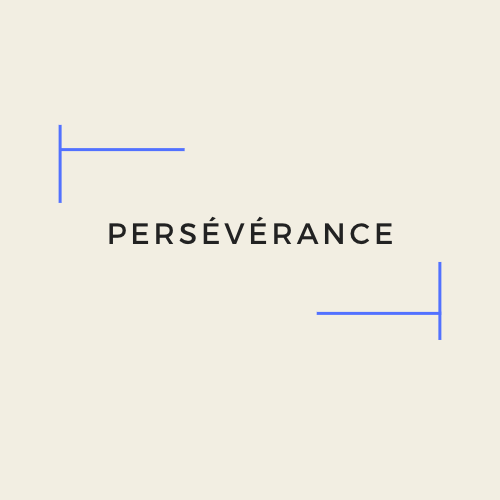
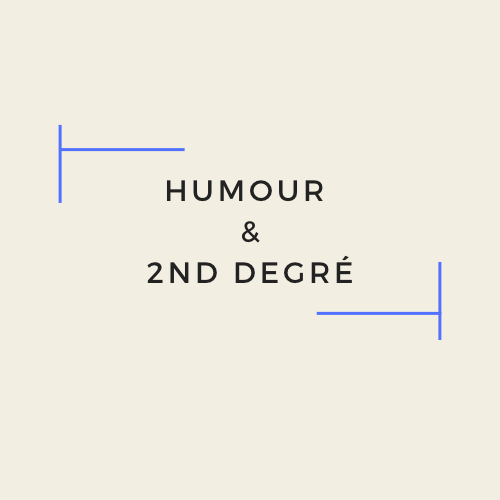
changed images for blue frame and added description

Changed region(s): [[0.21, 0.36, 0.78, 0.57]]

diff --git a/app.js b/app.js
@@ -1,124 +1,158 @@
 const bonus = [
 {
-  name: 'arbre_nelbi',
-  img: 'images/Arbre_nelbi.png',
-  bigImg: 'big_images/14.png'
+  name: 'BONUS, vous avez trouvé toute les pairs',
+  img: 'blue_images/Arbre_nelbi.png',
+  bigImg: 'big_images/14.png',
+  description: 'D\'où vient le prénom Nelbi ? C\'est à l\'origine le nom d\'un arbre sacré pour une tribu (les Peuls) au Mali. Il y a trois sortes de Nelbi : le Nelbi d\'eau, le Nelbi de terre et le Nelbi de nulle part 🤓'
 }
 ]
 const cardArray = [
 
   {
-    name: 'Esprit_d_equipe',
-    img: 'images/Esprit_d_equipe.png'
-
+    name: 'Esprit d\'equipe',
+    img: 'blue_images/Esprit_d_equipe.png',
+    bigImg: 'big_images/1.png',
+    description: '\'Il y a plus d\'idées dans deux têtes que dans une\'\n\n~ Jaques Chirac'
   },
   {
     name: 'Perseverance',
-    img: 'images/Perseverance.png'
+    img: 'blue_images/Perseverance.png',
+    bigImg: 'big_images/5.png',
+    description: 'En persévérant on arrive à tout.'
   },
   {
-    name: 'Plongee',
-    img: 'images/Plongee.png',
-    bigImg: 'images/big_plongée.jpg'
+    name: 'Plongée',
+    img: 'blue_images/Plongee.png',
+    bigImg: 'images/big_plongée.jpg',
+    description: '📸 prise à Hawaii lors d\'un séjour plongée.\n\n Titulaire du PADI Open Water, pratique la plongée depuis plusieurs années. 🐳'
   },
   {
-    name: 'Porte_bijoux',
-    img: 'images/Porte_bijoux.png',
-    bigImg: 'big_images/15.png'
+    name: 'Porte bijoux',
+    img: 'blue_images/Porte_bijoux.png',
+    bigImg: 'big_images/15.png',
+    description: 'Porte-bijou en laiton conçu dans la tête, et fabriqué, à la main 🤌'
   },
   {
-    name: 'Resolution_de_probleme',
-    img: 'images/Resolution_de_probleme.png'
+    name: 'Resolution de probleme',
+    img: 'blue_images/Resolution_de_probleme.png',
+    bigImg: 'big_images/2.png',
+    description: 'Recherche de solutions innovantes et efficace pour la résolution de problème.'
   },
   {
-    name: 'Sens_de_loptimisation',
-    img: 'images/Sens_de_loptimisation.png'
+    name: 'Sens de loptimisation',
+    img: 'blue_images/Sens_de_loptimisation.png',
+    bigImg: 'big_images/3.png',
+    description: 'Intérêt marqué dans la recherche de moyens pour rendre les processus plus efficaces et performants.'
   },
   {
-    name: 'Squelette_de_baleine',
-    img: 'images/Squelette_baleine.png',
-    bigImg: 'big_images/10.png'
+    name: 'Squelette de baleine',
+    img: 'blue_images/Squelette_baleine.png',
+    bigImg: 'big_images/10.png',
+    description: '📸 prise lors du soclage d\'un squelette de baleine (actuellement exposé au Musée des Confluences, à Lyon)'
   },
   {
     name: 'Velo',
-    img: 'images/Velo.png',
-    bigImg: 'big_images/19.png'
+    img: 'blue_images/Velo.png',
+    bigImg: 'big_images/19.png',
+    description: 'Le vélo, c\'est tout les jours, qu\'il vente ou qu\'il pleuve, court trajet, long trajet .\n🚴🏼♀'
   },
   {
     name: 'Yoga',
-    img: 'images/Yoga.png',
-    bigImg: 'big_images/8.png'
+    img: 'blue_images/Yoga.png',
+    bigImg: 'big_images/8.png',
+    description: 'Titulaire d\'un Teacher Training de 75H et pratique le yoga plusieurs fois par semaine'
   },
   {
     name: 'Humour',
-    img: 'images/Humour.png'
+    img: 'blue_images/Humour.png',
+    bigImg: 'big_images/6.png',
+    description: 'ERREUR 404'
   },
   {
-    name: 'Esprit_d_equipe',
-    img: 'images/Esprit_d_equipe.png'
-
+    name: 'Esprit d\'equipe',
+    img: 'blue_images/Esprit_d_equipe.png',
+    bigImg: 'big_images/1.png',
+    description: '\'Il y a plus d\'idées dans deux têtes que dans une\'\n\n~ Jaques Chirac'
   },
   {
     name: 'Perseverance',
-    img: 'images/Perseverance.png'
+    img: 'blue_images/Perseverance.png',
+    bigImg: 'big_images/5.png',
+    description: 'En persévérant on arrive à tout.'
   },
   {
     name: 'Plongee',
-    img: 'images/Plongee.png',
-    bigImg: 'images/big_plongée.jpg'
+    img: 'blue_images/Plongee.png',
+    bigImg: 'images/big_plongée.jpg',
+    description: '📸 prise à Hawaii lors d\'un séjour plongée.\n\n Titulaire du PADI Open Water, pratique la plongée depuis plusieurs années. 🐳'
   },
   {
-    name: 'Porte_bijoux',
-    img: 'images/Porte_bijoux.png',
-    bigImg: 'big_images/15.png'
+    name: 'Porte bijoux',
+    img: 'blue_images/Porte_bijoux.png',
+    bigImg: 'big_images/15.png',
+    description: 'Porte-bijou en laiton conçu dans la tête, et fabriqué, à la main 🤌'
   },
   {
-    name: 'Resolution_de_probleme',
-    img: 'images/Resolution_de_probleme.png'
+    name: 'Resolution de probleme',
+    img: 'blue_images/Resolution_de_probleme.png',
+    bigImg: 'big_images/2.png',
+    description: 'Recherche de solutions innovantes et efficace pour la résolution de problème.'
   },
   {
-    name: 'Sens_de_loptimisation',
-    img: 'images/Sens_de_loptimisation.png'
+    name: 'Sens de loptimisation',
+    img: 'blue_images/Sens_de_loptimisation.png',
+    bigImg: 'big_images/3.png',
+    description: 'Intérêt marqué dans la recherche de moyens pour rendre les processus plus efficaces et performants.'
   },
   {
-    name: 'Squelette_de_baleine',
-    img: 'images/Squelette_baleine.png',
-    bigImg: 'big_images/10.png'
+    name: 'Squelette de baleine',
+    img: 'blue_images/Squelette_baleine.png',
+    bigImg: 'big_images/10.png',
+    description: '📸 prise lors du soclage d\'un squelette de baleine (actuellement exposé au Musée des Confluences, à Lyon)'
   },
   {
     name: 'Velo',
-    img: 'images/Velo.png',
-    bigImg: 'big_images/19.png'
+    img: 'blue_images/Velo.png',
+    bigImg: 'big_images/19.png',
+    description: 'Le vélo, c\'est tout les jours, qu\'il vente ou qu\'il pleuve, court trajet, long trajet .\n🚴🏼♀'
   },
   {
     name: 'Yoga',
-    img: 'images/Yoga.png',
-    bigImg: 'big_images/8.png'
+    img: 'blue_images/Yoga.png',
+    bigImg: 'big_images/8.png',
+    description: 'Titulaire d\'un Teacher Training de 75H et pratique le yoga plusieurs fois par semaine'
   },
   {
     name: 'Humour',
-    img: 'images/Humour.png'
+    img: 'blue_images/Humour.png',
+    bigImg: 'big_images/6.png',
+    description: 'ERREUR 404'
   }
   // {
   //   name: 'LAD',
   //   img: 'images/LAD.png'
+  //   description: '📸 du musée du Louvre Abu Dhabi prise lors d\'un chantier de soclage pour l\'exposition \'Dragons et phéonix\''
   // },
   // {
   //   name: 'Montagne',
-  //   img: 'images/Montagne.png'
+  //   img: 'images/Montagne.png',
+  //   description: '📸 prise en randonnée dans les Pyrénées Oriantales.\n\n La montagne, ça vous gagne 🤓'
   // },
   // {
   //   name: 'Soudure',
-  //   img: 'images/Soudure.png'
+  //   img: 'images/Soudure.png',
+  //   description: 'Soudure de précision au PUK pour la fabrication de petit soclage'
   // },
 
   // {
   //   name: 'Vallee_des_temples',
-  //   img: 'images/Vallee_des_temples.png'
+  //   img: 'images/Vallee_des_temples.png',
+  //   description: 'On aime l'aventure et les voyages !\n\n📸prise à la vallée des temples en Sicile'
   // },
   // {
   //   name: 'Aïnu',
-  //   img: 'images/ainu.png'
+  //   img: 'images/ainu.png',
+  //   description: 'Article paru dans le magazine\'The Good Life magazine\', photo prise au Musée Carnavalet lors de l\’installation de la collection permanente.'
   // },
   // {
   //   name: 'AutoCAD',
@@ -127,14 +161,19 @@ const cardArray = [
   // {
   //   name: 'Banjo',
   //   img: 'images/Banjo.png'
+  //   description: 'Adore la musique (🎶électronique, rock, jazz,...🎶)'
   // },
   // {
-  //   name: 'dessin_bureau',
-  //   img: 'images/dessin_bureau.png'
+  //   name: 'Dessin bureau Art Déco',
+  //   img: 'images/dessin_bureau.png',
+  //   bigImg: 'big_images/7.png'
+  //   description: 'Apprentissage, pour les diplômes d\'ébenisterie, du dessin, peinture et perspective ainsi que l\'histoire de l\'art et des styles.\n\nDessin au feutre et aquarelle d\'un \'Bureau de dames\'\n style Art Déco.'
   // },
   // {
-  //   name: 'Empathie',
-  //   img: 'images/Empathie.png'
+  //   name: 'polyglotte',
+  //   img: 'blue_images/polyglotte.png',
+  //   bigImg: 'big_images/polyglotte.png',
+  //   description: '\'Un esprit enfermé dans la langue est en prison.\'\n\n~ Simone Weil'
   // },
 
   // {
@@ -160,7 +199,7 @@ cardArray.sort(() => 0.5 - Math.random())
 
 const modal = document.querySelector('#modal');
 const modalImg = document.querySelector('#modal-img');
-const description = document.querySelector('#description');
+const modalDescription = document.querySelector('#description');
 const closeBtn = document.querySelector('#close-btn');
 const gridDisplay = document.querySelector('#grid')
 let cardsChosen = []
@@ -199,6 +238,7 @@ function checkForMatch() {
   }
   if (cardsChosen[0] == cardsChosen[1]) {
     modalImg.src = cardArray[optionOneId].bigImg;
+    modalDescription.src = cardArray[optionOneId].description;
     modal.classList.add('open');
 
     cards[optionOneId].setAttribute('src', 'images/white.png')
@@ -229,6 +269,85 @@ function flipCard () {
   console.log(cardsChosenIds)
   this.setAttribute('src', cardArray[cardId].img)
   if (cardsChosen.length === 2) {
-    setTimeout(checkForMatch, 1500)
+    setTimeout(checkForMatch, 1000)
   }
 }
+
+//Other code
+
+// cardArray.sort(() => 0.5 - Math.random());
+
+// const modal = document.querySelector('#modal');
+// const modalImg = document.querySelector('#modal-img');
+// const description = document.querySelector('#description');
+// const closeBtn = document.querySelector('#close-btn');
+// const gridDisplay = document.querySelector('#grid');
+// let cardsChosen = [];
+// let cardsChosenIds = [];
+// const cardsWon = [];
+
+// closeBtn.addEventListener('click', function() {
+//   modal.classList.remove('open');
+// });
+
+// function createBoard() {
+//   for (let i = 0; i < cardArray.length; i++) {
+//     const card = document.createElement('img');
+//     card.setAttribute('src', 'images/Back.png');
+//     card.setAttribute('data-id', i);
+//     gridDisplay.appendChild(card);
+//     card.addEventListener('click', flipCard);
+//   }
+// }
+
+// createBoard();
+
+// function foundPair() {
+//   const cardId = this.getAttribute('data-id');
+//   alert(cardArray[cardId].bigImg);
+// }
+
+// function checkForMatch() {
+//   const cards = document.querySelectorAll('img');
+//   const optionOneId = cardsChosenIds[0];
+//   const optionTwoId = cardsChosenIds[1];
+
+//   console.log('checkForMatch !');
+//   if (optionOneId == optionTwoId) {
+//     alert('Vous avez cliqué sur la même carte !');
+//   }
+//   if (cardsChosen[0] == cardsChosen[1]) {
+//     modalImg.src = cardArray[optionOneId].bigImg;
+//     modal.classList.add('open');
+
+//     cards[optionOneId].setAttribute('src', 'images/white.png');
+//     cards[optionTwoId].setAttribute('src', 'images/white.png');
+//     cards[optionOneId].removeEventListener('click', flipCard);
+//     cards[optionTwoId].removeEventListener('click', flipCard);
+//     cardsWon.push(cardsChosen);
+//   }
+//   else {
+//     cards[optionOneId].setAttribute('src', 'images/back.png');
+//     cards[optionTwoId].setAttribute('src', 'images/back.png');
+//   }
+//   cardsChosen = [];
+//   cardsChosenIds = [];
+
+//   if (cardsWon.length == cardArray.length / 2) {
+//     alert('Bravo ! Vous avez gagné !');
+//     modalImg.src = bonus[0].bigImg;
+//     modal.classList.add('open');
+//   }
+// }
+
+// function flipCard () {
+//   const cardId = this.getAttribute('data-id');
+//   cardsChosen.push(cardArray[cardId].name);
+//   cardsChosenIds.push(cardId);
+//   console.log(cardsChosen);
+//   console.log(cardsChosenIds);
+//   this.setAttribute('src', cardArray[cardId].img);
+//   if (cardsChosen.length === 2) {
+//     setTimeout(checkForMatch, 1000);
+//   }
+// }

diff --git a/style.css b/style.css
@@ -9,14 +9,23 @@
 #modal {
   display: none;
   position: fixed;
-  top: 0;
-  left: 0;
-  width: 100%;
-  height: 100%;
+  top: 50%;
+  left: 50%;
+  transform: translate(-50%, -50%);
+  width: 80%;
+  max-width: 1500px;
+  max-height: 600px;
   background-color: rgba(0, 0, 0, 0.8);
   z-index: 999;
-  justify-content: center;
+  justify-content: flex-start;
   align-items: center;
+  border-radius: 10px;
+}
+
+#descrption {
+  display: flex;
+  align-items: center;
+  justify-content: flex-end;
 }
 
 #modal-img {

diff --git a/index.html b/index.html
@@ -27,8 +27,8 @@
       </div>
       <div id="modal">
         <img id="modal-img" src="" alt="">
+        <p id="description"></p>
         <button id="close-btn">x</button>
-        <!-- <p id="description"></p> -->
       </div>
     </div>
 
